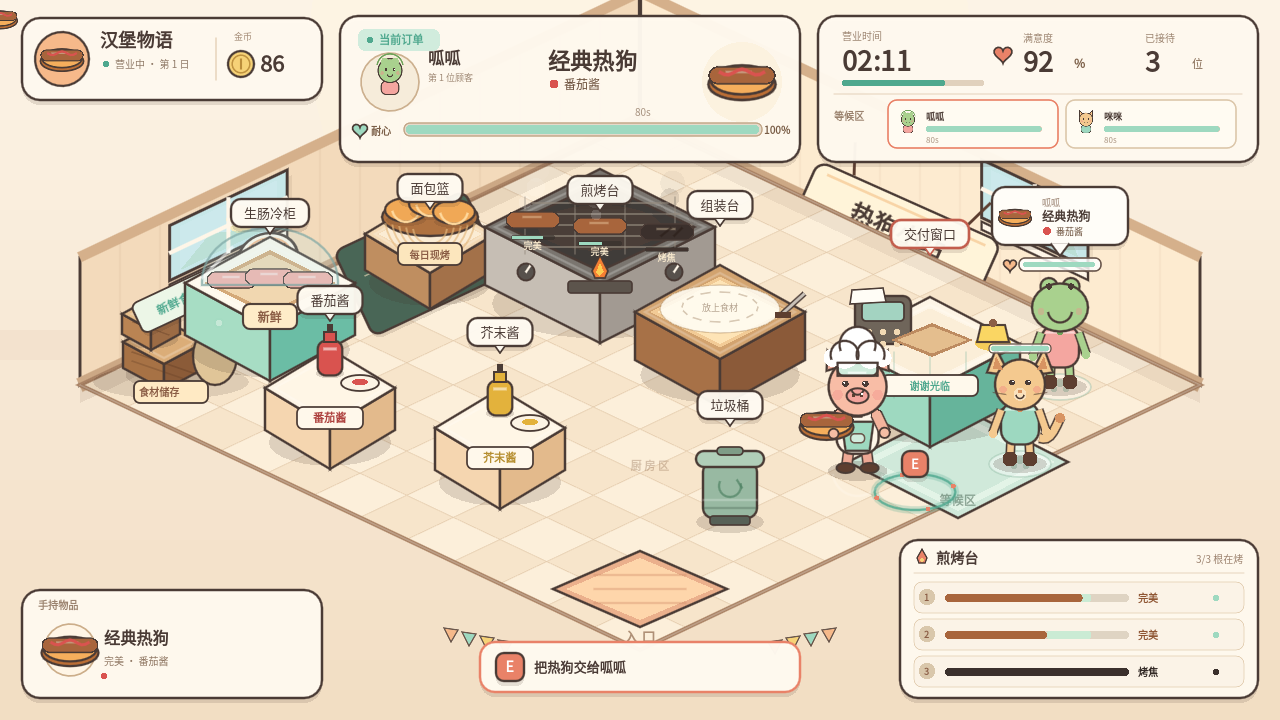
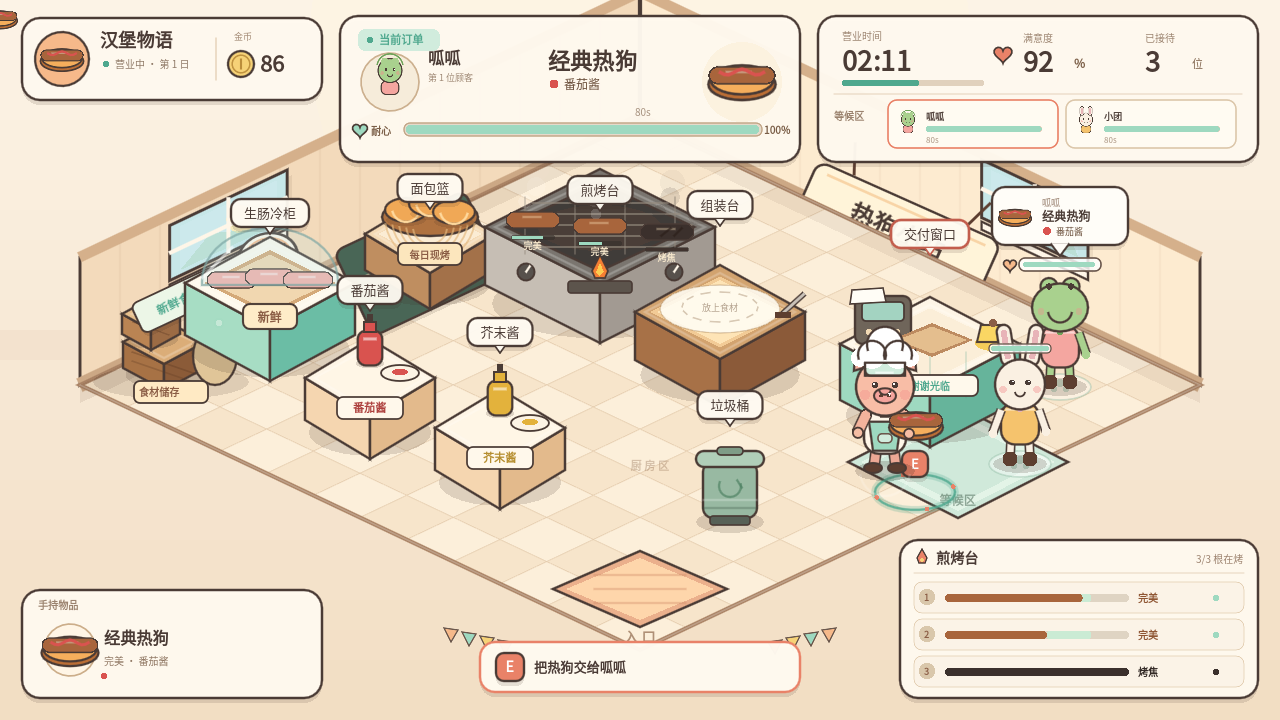
fix: make corner sausage accessible and support click interaction

diff --git a/README.md b/README.md
@@ -40,7 +40,7 @@ project.godot
 | 操作 | 按键 |
 |---|---|
 | 移动 | `W` `A` `S` `D` / 方向键 |
-| 交互、拿取、放上、挤酱、交付 | `E` |
+| 交互、拿取、放上、挤酱、交付 | 靠近后按 `E`，或靠近后鼠标点击设备 |
 | 暂停 / 继续 | `Esc` |
 | 开始、继续、重开、回标题 | 鼠标点击按钮 |
 
@@ -64,7 +64,7 @@ project.godot
 ## 已实现内容
 
 - 45° 斜俯视热狗店完整场景：入口、等候区、食材储存角、生肠冷柜、面包篮、煎烤台、双酱料台、组装台、交付窗口、垃圾桶、墙面装饰、地垫和等候毯。
-- 玩家移动、菱形地面边界、设备碰撞、最近设备高亮、E 键交互和交互提示。
+- 玩家移动、菱形地面边界、设备碰撞、最近设备高亮、E 键交互、鼠标点击设备交互和交互提示。
 - 完整热狗烹饪状态机：6 个火候阶段、3 个烤位、火候进度、品质奖励、烟雾和焦糊表现。
 - 顾客随机物种/名字、随机订单、订单气泡、耐心条、超时离店、满意/生气表现。
 - 订单校验：热狗类型（单肠/双层）、酱料组合（番茄/芥末/双酱/原味）、熟度和烤焦判定。
@@ -73,7 +73,7 @@ project.godot
 - 标题界面、暂停菜单、结算评级与重开、回到标题。
 - 程序化手绘风矢量素材：所有角色、设备、地面、墙面、UI 图元均为代码绘制，不是像素图，也没有外部杂图拼贴。
 - 数据集中配置在 `data/game_config.json`，可独立调数值。
-- 无头自动验收 88 项通过（3 处 GUI 鼠标检查按环境跳过）；窗口模式 92 项通过（包含鼠标点击、键盘 E/ESC）。
+- 无头自动验收 89 项通过（4 处 GUI 鼠标检查按环境跳过）；窗口模式 94 项通过（包含鼠标点击设备、键盘 E/ESC）。
 
 ## 项目结构
 
@@ -154,10 +154,10 @@ $godot = "..\tools\godot\Godot_v4.7.2-stable_win64_console.exe"
 $env:APPDATA = "$PWD\.userdata\roaming"
 $env:LOCALAPPDATA = "$PWD\.userdata\local"
 
-# 无头逻辑验收（88 项通过，3 处 GUI 鼠标检查自动跳过）
+# 无头逻辑验收（89 项通过，4 处 GUI 鼠标检查自动跳过）
 & $godot --headless --path . res://tests/TestRunner.tscn
 
-# 窗口模式完整验收（92 项通过，包含真实鼠标点击开始/暂停/重开、键盘 E/ESC）
+# 窗口模式完整验收（94 项通过，包含真实鼠标点击设备/开始/暂停/重开、键盘 E/ESC）
 & $godot --path . res://tests/TestRunner.tscn
 ```
 

diff --git a/tests/TEST_REPORT.md b/tests/TEST_REPORT.md
@@ -1,6 +1,6 @@
 # 《汉堡物语》第一阶段 MVP 测试报告
 
-测试日期：2026-11-03
+测试日期：2026-11-04
 引擎：Godot 4.7.2.stable.official
 渲染：GL Compatibility / OpenGL 3.3
 机器：Windows，NVIDIA GeForce RTX 4070
@@ -23,10 +23,10 @@ Godot_v4.7.2-stable_win64_console.exe --path . res://tests/CaptureRunner.tscn
 
 | 模式 | 检查数 | 失败 | 结果 |
 |---|---:|---:|---|
-| 无头逻辑验收 | 88 | 0 | PASS |
-| 窗口完整验收（含鼠标/GUI） | 92 | 0 | PASS |
+| 无头逻辑验收 | 89 | 0 | PASS |
+| 窗口完整验收（含鼠标/GUI） | 94 | 0 | PASS |
 
-无头模式下 DisplayServer 不派发 GUI 鼠标事件，因此 3 处鼠标检查会打印 `[SKIP]`；窗口模式会真实执行并通过这 4 项鼠标相关检查（开始、暂停继续、结算重开等差异）。
+无头模式下 DisplayServer 不派发 GUI 鼠标事件，因此 4 处鼠标检查会打印 `[SKIP]`；窗口模式会真实执行并通过这 5 项鼠标相关检查（开始、暂停继续、结算重开、点击世界设备等差异）。
 
 ## 3. 覆盖项
 
@@ -37,6 +37,7 @@ Godot_v4.7.2-stable_win64_console.exe --path . res://tests/CaptureRunner.tscn
 - 标题状态禁止移动。
 - 鼠标点击“开始营业”进入营业。
 - 所有设备交互点通过网格 BFS 可达性检查。
+- 所有设备交互点可直接站立，不被其他设备碰撞框覆盖。
 - 顾客按到店计时自动生成。
 
 ### 玩家与交互
@@ -44,6 +45,7 @@ Godot_v4.7.2-stable_win64_console.exe --path . res://tests/CaptureRunner.tscn
 - 键盘 E 事件可触发设备交互。
 - 键盘 ESC 暂停 / 恢复。
 - 鼠标点击暂停菜单“继续营业”恢复。
+- 鼠标直接点击生肠冷柜可取出生肠，修复最左侧生肠被酱料台挡住的问题。
 - 交互范围最近设备高亮与提示。
 
 ### 完整订单闭环
@@ -115,4 +117,7 @@ ERROR: Failed to read the root certificate store.
 - 修正煎烤面板状态文字被裁切。
 - 增加“先放面包”的组装支线，避免玩家拿错顺序时被卡住。
 - 同屏避免同名顾客。
+- 修正生肠冷柜最左侧食材被番茄酱台挡住的问题：番茄酱台右移，交互点恢复可站立。
+- 增加鼠标点击世界设备交互，并修复点击事件坐标取值错误。
+- 增加“交互点可直接站立”和“鼠标点击生肠冷柜”自动验收。
 - 增加桌面启动脚本与测试脚本。
